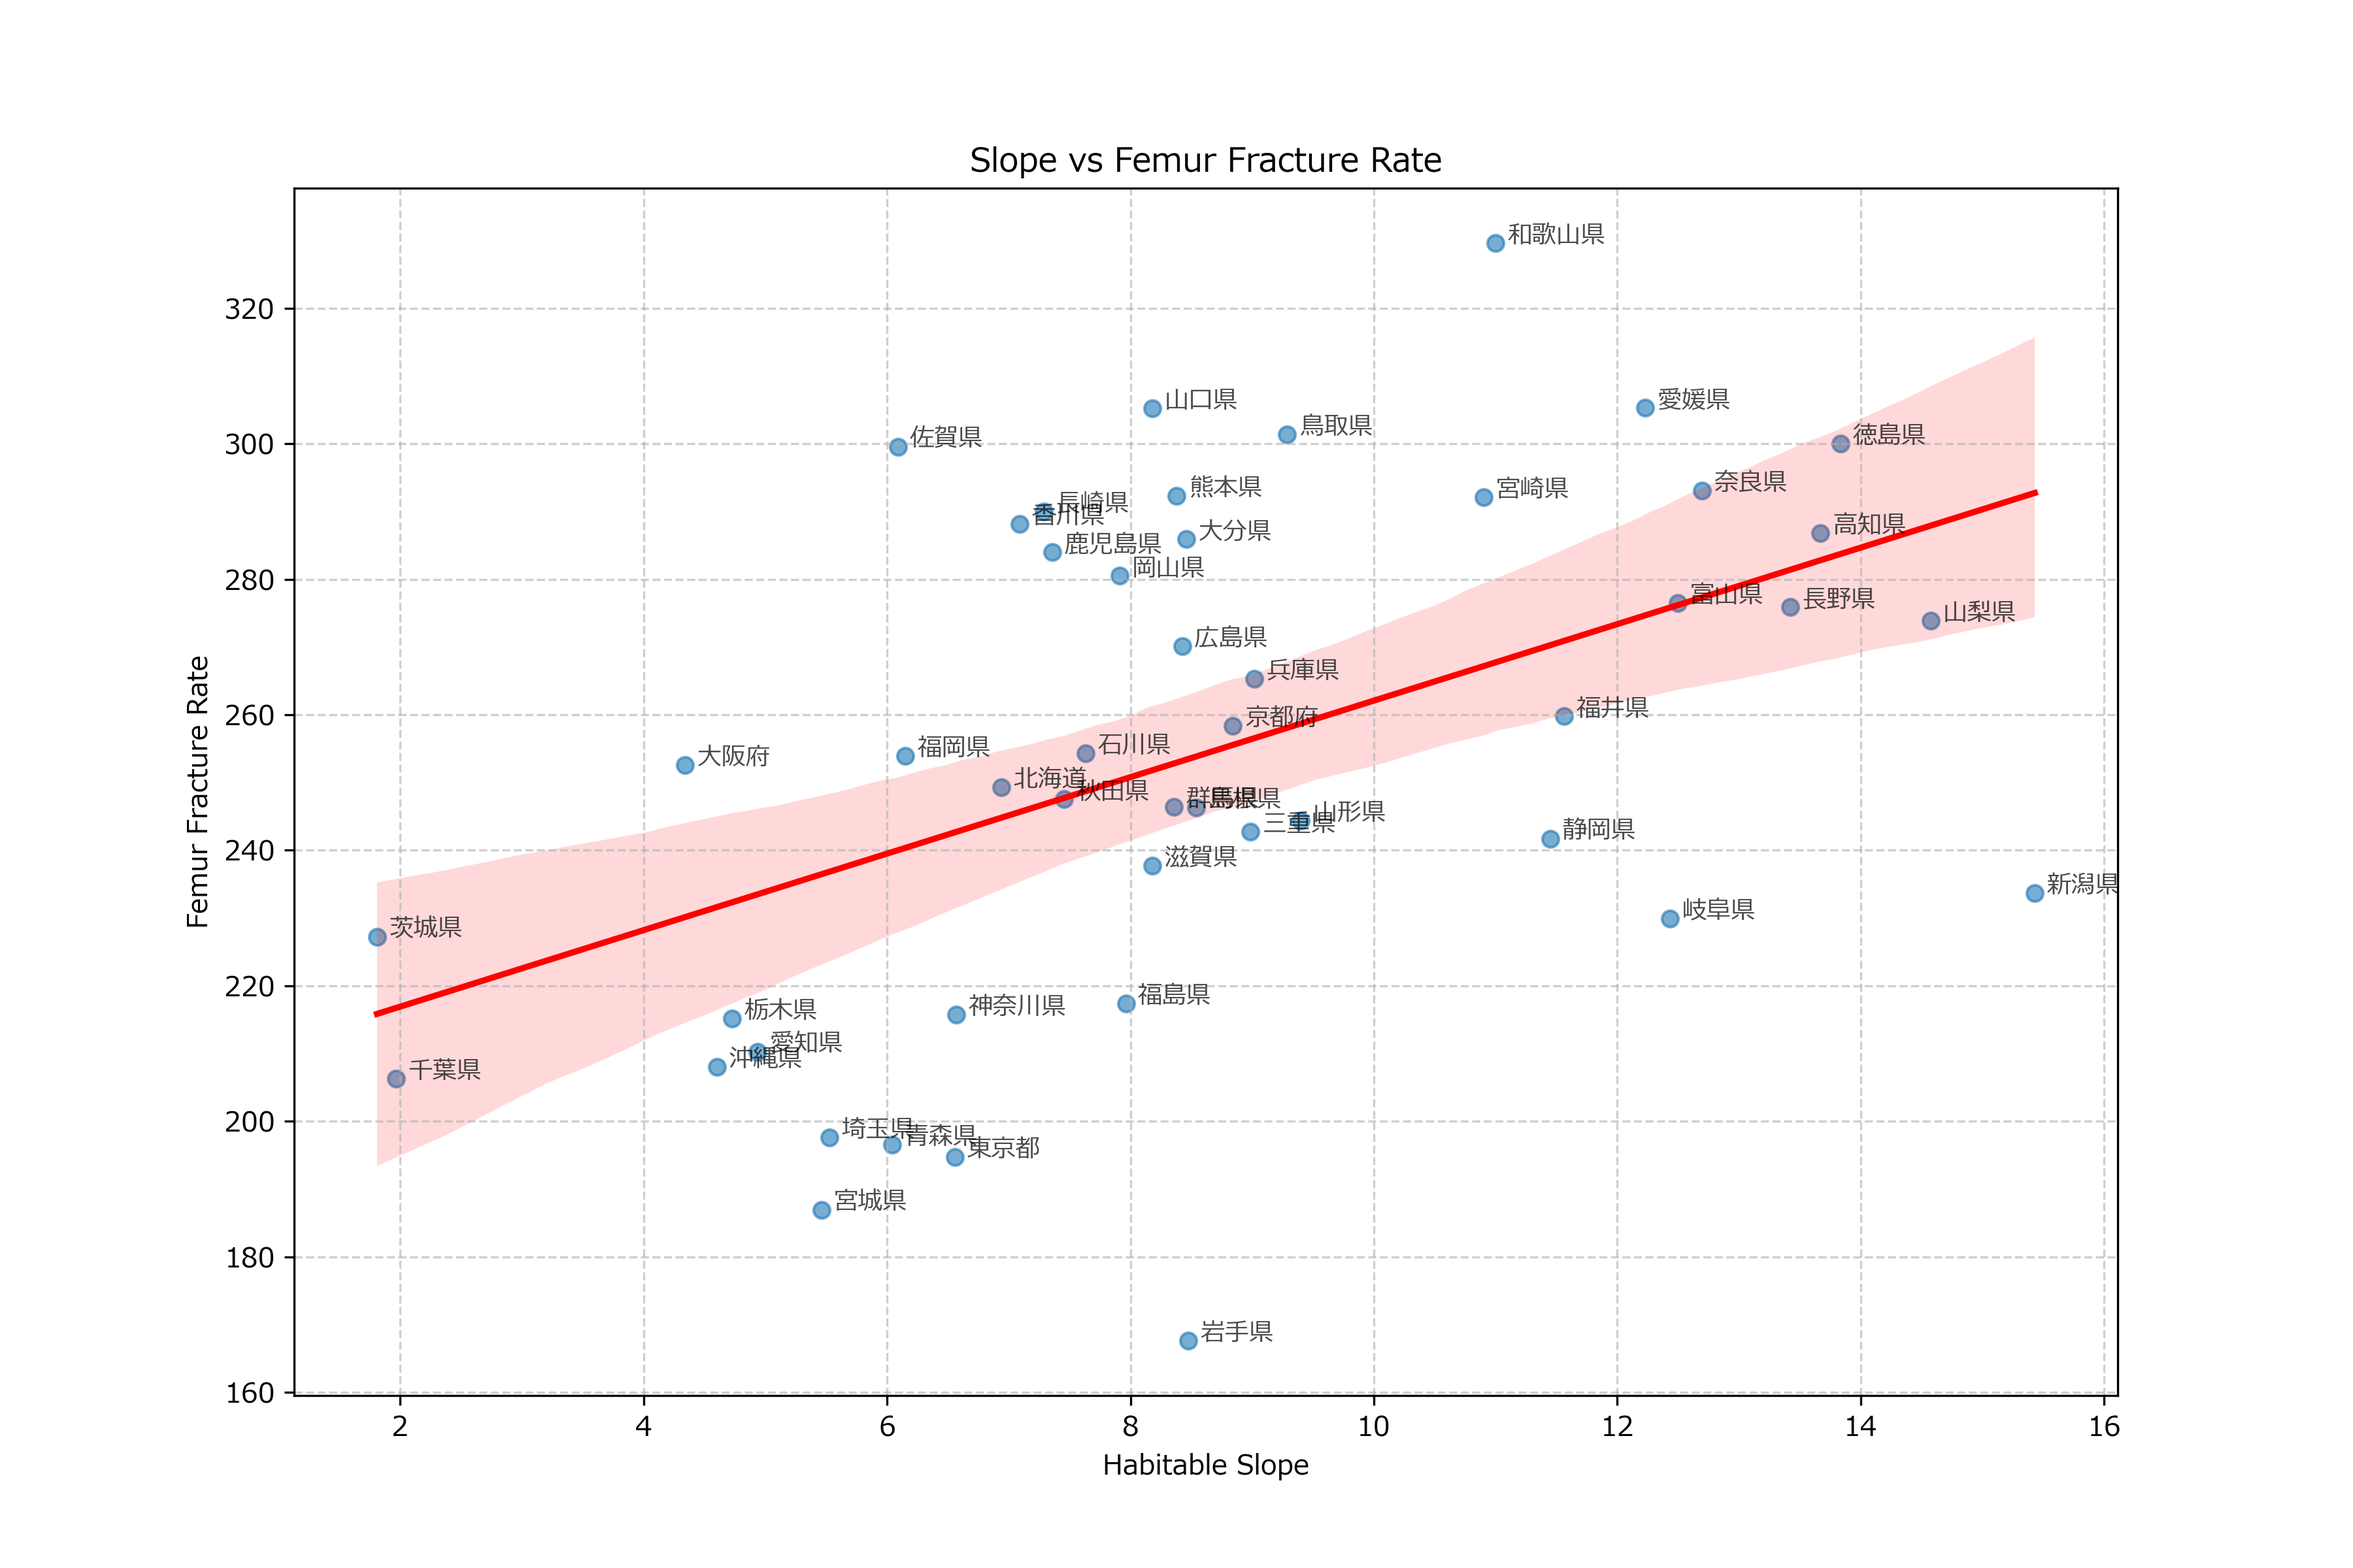
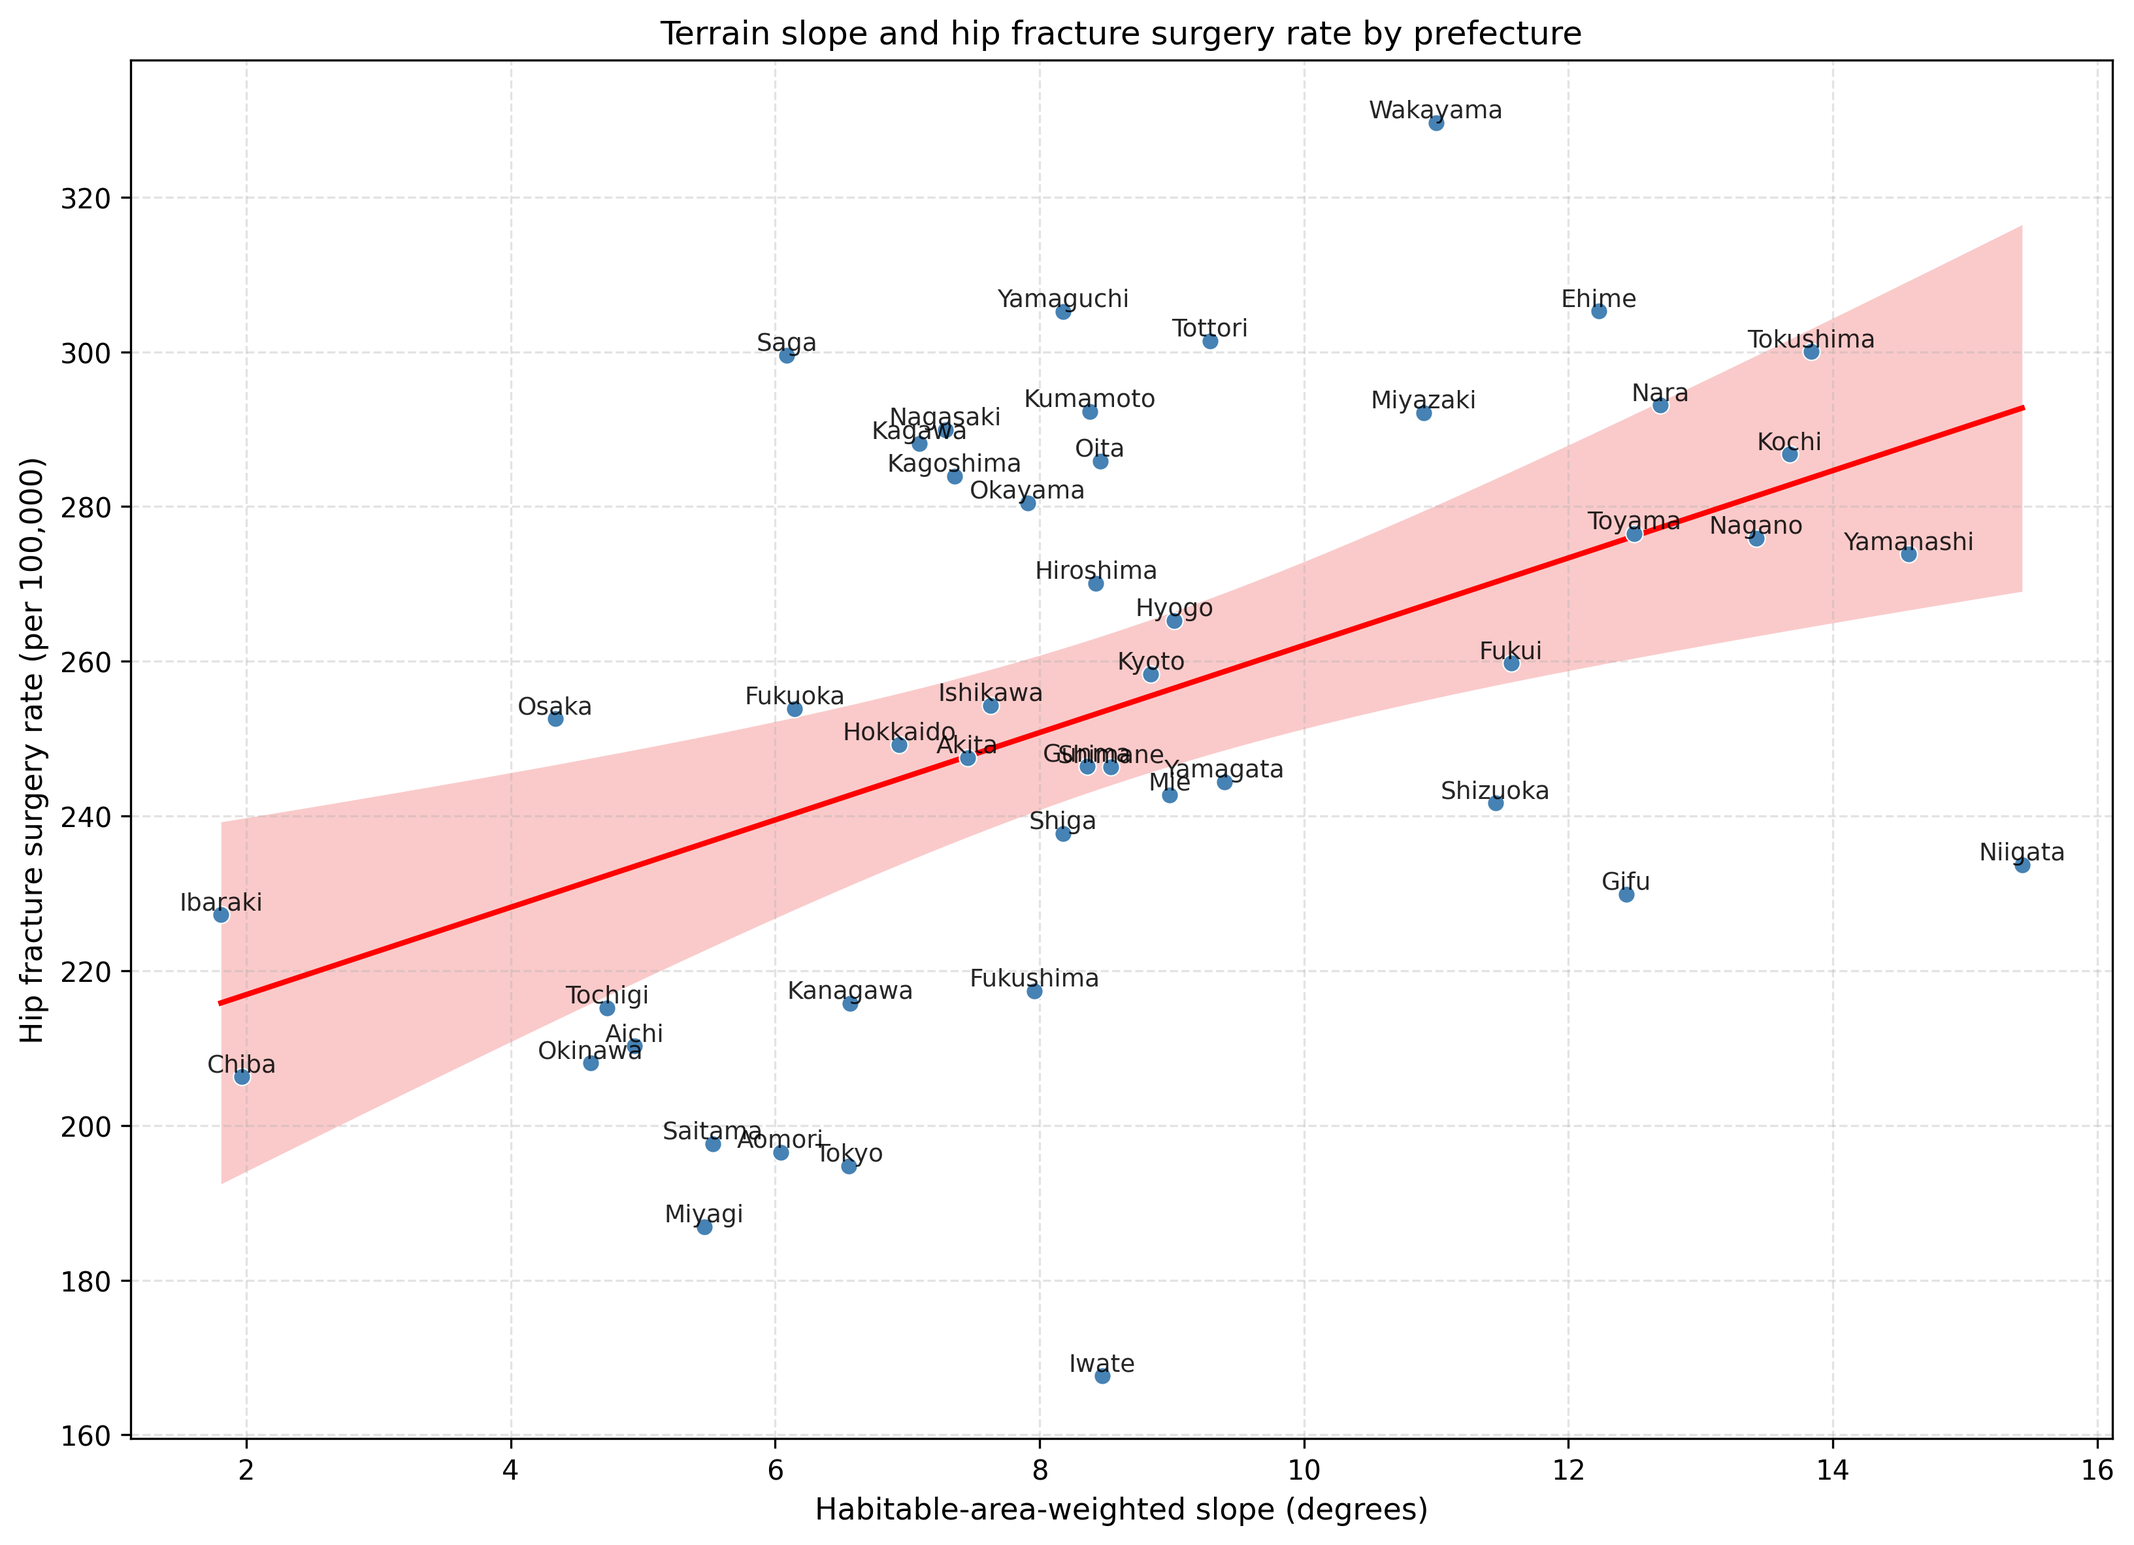
No.32: Regenerate figures at 300 dpi with larger fonts

diff --git a/03_Analysis/scripts/regen_scatter_figure1_english.py b/03_Analysis/scripts/regen_scatter_figure1_english.py
@@ -87,7 +87,7 @@ def main() -> None:
     tval = stats.t.ppf(0.975, dof)
     ci = tval * se
 
-    plt.figure(figsize=(10, 7))
+    plt.figure(figsize=(11, 8))
     ax = plt.gca()
     ax.fill_between(xs, ys - ci, ys + ci, color="#f8b4b4", alpha=0.7, linewidth=0)
     ax.plot(xs, ys, color="red", linewidth=2)
@@ -97,15 +97,16 @@ def main() -> None:
         ax.annotate(
             row["pref_en"],
             (row["habitable_slope_weighted"], row["femur_rate"]),
-            fontsize=6,
+            fontsize=9,
             ha="center",
             va="bottom",
             alpha=0.85,
         )
 
-    ax.set_xlabel("Habitable Slope")
-    ax.set_ylabel("Femur Fracture Rate")
-    ax.set_title("Slope vs Femur Fracture Rate")
+    ax.set_xlabel("Habitable-area-weighted slope (degrees)", fontsize=11)
+    ax.set_ylabel("Hip fracture surgery rate (per 100,000)", fontsize=11)
+    ax.set_title("Terrain slope and hip fracture surgery rate by prefecture", fontsize=12)
+    ax.tick_params(labelsize=10)
     ax.grid(True, linestyle="--", alpha=0.35)
     plt.tight_layout()
     OUT_PATH.parent.mkdir(parents=True, exist_ok=True)

diff --git a/03_Analysis/scripts/10_create_prefecture_maps.py b/03_Analysis/scripts/10_create_prefecture_maps.py
@@ -69,12 +69,12 @@ print(f"Femur rate range: {df['femur_rate'].min():.1f} - {df['femur_rate'].max()
 # ---------------------------------------------------------------------------
 # 共通レイアウト設定
 # ---------------------------------------------------------------------------
-FONT_TITLE  = 14
-FONT_LABEL  = 9
-FONT_TICK   = 8
+FONT_TITLE  = 16
+FONT_LABEL  = 12
+FONT_TICK   = 10
 EDGE_COLOR  = "white"
 LINE_WIDTH  = 0.5
-DPI         = 180
+DPI         = 300
 
 def style_ax(ax):
     """地図軸の共通スタイル設定"""
